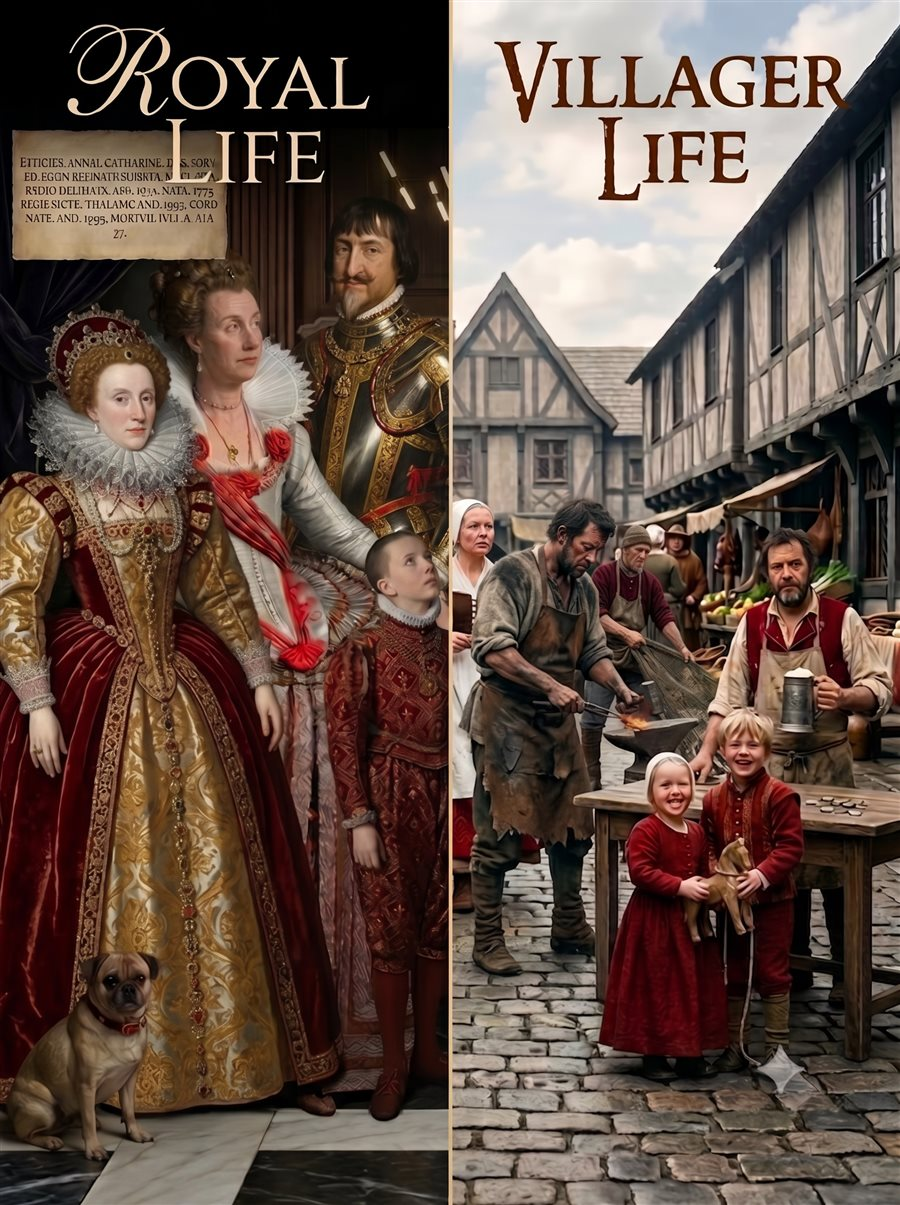
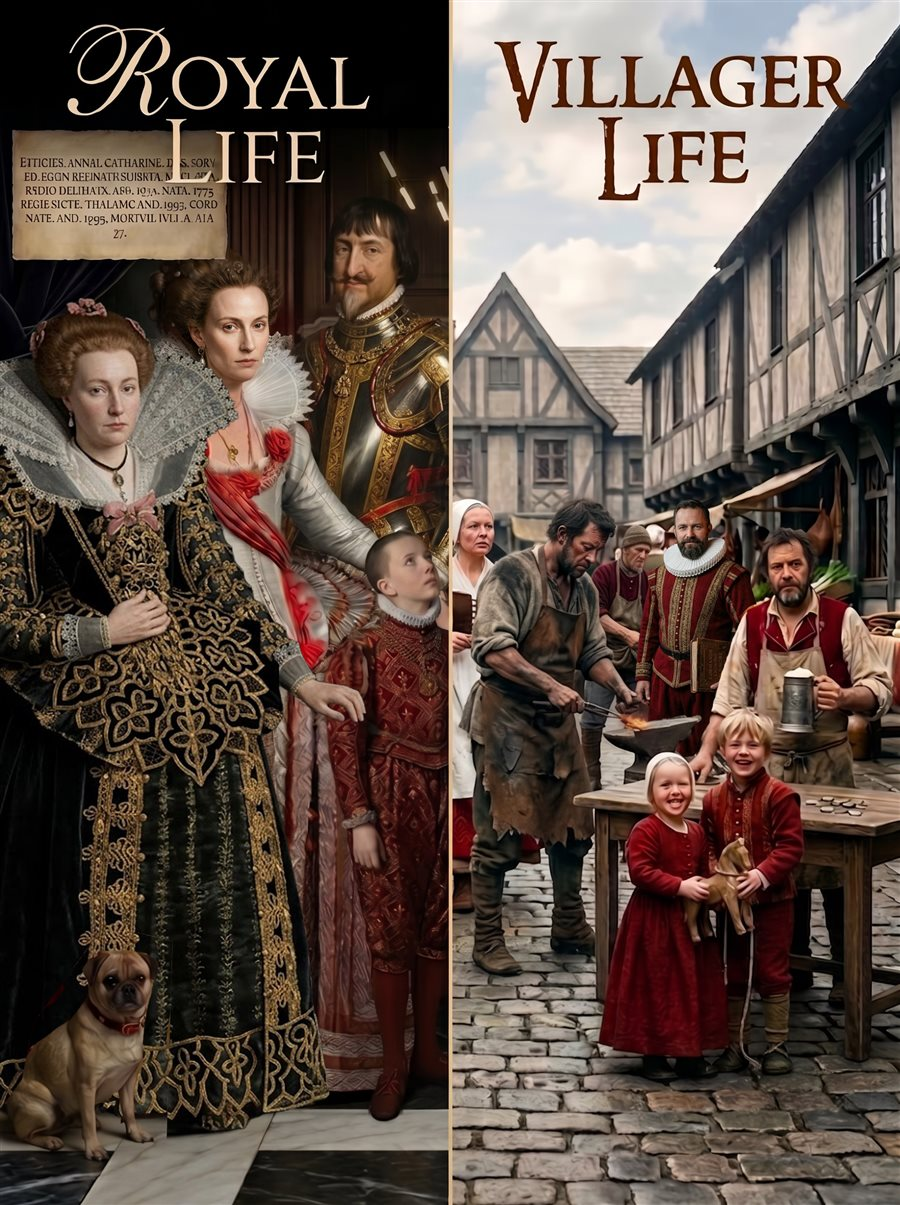
Kronborg landing page redesign; dark-by-default across all ETL Classrooms
- kronborg.html: widened the page (1000px -> 1760px, matching the agent
  pages), added a real portrait to every cast card, and fixed the
  townspeople grid at exactly 3 columns (was auto-fill, leaving a half-empty
  last row). Royals keep their tall portrait crop, villagers get the wider
  landscape crop, same distinction used everywhere else on this classroom.
- Updated royal-villager-life.jpg: the merchant was missing from the
  villager side of the cover image, now included.
- All 8 ETL Classrooms pages (classrooms, both PTX 4990 rooms, Einstein,
  Curie, and all three Kronborg pages) now default to dark regardless of
  the visitor's OS color-scheme preference. The toggle still works and is
  still remembered; only the fallback when nothing is saved changed.

Changed region(s): [[0.0, 0.2149, 0.4044, 0.9519], [0.6844, 0.3992, 0.84, 0.6448], [0.84, 0.8598, 0.9333, 0.9212]]

diff --git a/kronborg.html b/kronborg.html
@@ -7,7 +7,7 @@
 (function () {
   try {
     var saved = localStorage.getItem('etl_classrooms_theme');
-    var theme = saved || (matchMedia('(prefers-color-scheme: light)').matches ? 'light' : 'dark');
+    var theme = saved || 'dark';
     document.documentElement.setAttribute('data-theme', theme);
   } catch (_) {}
 })();
@@ -75,14 +75,14 @@ a:hover { color: var(--green); }
 }
 .ribbon b { color: var(--blue-br); }
 
-.wrap { max-width: 1000px; margin: 0 auto; padding: 0 1.4rem 6rem; }
+.wrap { max-width: 1760px; margin: 0 auto; padding: 0 1.2rem 4rem; }
 .backlink {
   font-family: 'IBM Plex Mono', monospace;
   font-size: .72rem;
   color: var(--mute);
   text-decoration: none;
   display: inline-block;
-  margin: 1.6rem 0 .4rem;
+  margin: .9rem 0 .7rem;
   letter-spacing: .04em;
 }
 .backlink:hover { color: var(--text); }
@@ -133,12 +133,24 @@ a:hover { color: var(--green); }
 .sec-rule { flex: 1; height: 1px; background: var(--line); }
 .sec-sub { font-size: .88rem; color: var(--mute); margin: .4rem 0 1.6rem; max-width: 66ch; }
 
-.cards { display: grid; grid-template-columns: repeat(auto-fill, minmax(220px, 1fr)); gap: 1px; border: 1px solid var(--line); }
-.card { background: var(--panel); padding: 1.4rem; display: block; transition: background .18s; }
+.cards { display: grid; gap: 1px; border: 1px solid var(--line); }
+.cards--royal { grid-template-columns: repeat(4, 1fr); }
+.cards--villager { grid-template-columns: repeat(3, 1fr); }
+.card { background: var(--panel); display: block; transition: background .18s; }
 .card:hover { background: var(--panel2); }
+.card-portrait { aspect-ratio: 3 / 4; overflow: hidden; background: var(--bg2); line-height: 0; }
+.cards--villager .card-portrait { aspect-ratio: 16 / 10; }
+.card-portrait img { width: 100%; height: 100%; object-fit: cover; display: block; }
+.card-body { padding: 1.1rem 1.3rem 1.4rem; }
 .card-name { font-family: 'Spectral', serif; font-size: 1.1rem; font-weight: 600; color: var(--cream); margin: 0 0 .2rem; }
 .card-role { font-family: 'IBM Plex Mono', monospace; font-size: .64rem; color: var(--blue-br); letter-spacing: .04em; margin: 0 0 .5rem; text-transform: uppercase; }
 .card-desc { font-size: .82rem; color: var(--mute); line-height: 1.6; margin: 0; }
+@media (max-width: 900px) {
+  .cards--royal, .cards--villager { grid-template-columns: repeat(2, 1fr); }
+}
+@media (max-width: 560px) {
+  .cards--royal, .cards--villager { grid-template-columns: 1fr; }
+}
 
 .table-card {
   margin-top: 1px;
@@ -213,26 +225,38 @@ a:hover { color: var(--green); }
     <h2>The Royal Court</h2>
     <div class="sec-rule"></div>
   </div>
-  <div class="cards">
+  <div class="cards cards--royal">
     <a class="card" href="/kronborg-agent.html?agent=king">
-      <p class="card-name">Christian IV</p>
-      <p class="card-role">The Older King</p>
-      <p class="card-desc">Master of Kronborg, the Sound Toll, and the Baltic sea lanes.</p>
+      <div class="card-portrait"><img src="/assets/kronborg/king-eyes-open.jpg" alt="Christian IV"></div>
+      <div class="card-body">
+        <p class="card-name">Christian IV</p>
+        <p class="card-role">The Older King</p>
+        <p class="card-desc">Master of Kronborg, the Sound Toll, and the Baltic sea lanes.</p>
+      </div>
     </a>
     <a class="card" href="/kronborg-agent.html?agent=boy_king">
-      <p class="card-name">Prince Christian</p>
-      <p class="card-role">The Boy King, age 10</p>
-      <p class="card-desc">Technically sovereign, holding zero real power yet.</p>
+      <div class="card-portrait"><img src="/assets/kronborg/boy_king-eyes-open.jpg" alt="Prince Christian"></div>
+      <div class="card-body">
+        <p class="card-name">Prince Christian</p>
+        <p class="card-role">The Boy King, age 10</p>
+        <p class="card-desc">Technically sovereign, holding zero real power yet.</p>
+      </div>
     </a>
     <a class="card" href="/kronborg-agent.html?agent=anne_catherine">
-      <p class="card-name">Queen Anne Catherine</p>
-      <p class="card-role">The Royal Consort</p>
-      <p class="card-desc">Legitimate wife of Christian IV, the anchor of court diplomacy.</p>
+      <div class="card-portrait"><img src="/assets/kronborg/anne_catherine-eyes-open.jpg" alt="Queen Anne Catherine"></div>
+      <div class="card-body">
+        <p class="card-name">Queen Anne Catherine</p>
+        <p class="card-role">The Royal Consort</p>
+        <p class="card-desc">Legitimate wife of Christian IV, the anchor of court diplomacy.</p>
+      </div>
     </a>
     <a class="card" href="/kronborg-agent.html?agent=kirsten_munk">
-      <p class="card-name">Kirsten Munk</p>
-      <p class="card-role">The Morganatic Wife</p>
-      <p class="card-desc">No royal blood, and no patience for pretending otherwise.</p>
+      <div class="card-portrait"><img src="/assets/kronborg/kirsten_munk-eyes-open.jpg" alt="Kirsten Munk"></div>
+      <div class="card-body">
+        <p class="card-name">Kirsten Munk</p>
+        <p class="card-role">The Morganatic Wife</p>
+        <p class="card-desc">No royal blood, and no patience for pretending otherwise.</p>
+      </div>
     </a>
   </div>
 
@@ -240,36 +264,54 @@ a:hover { color: var(--green); }
     <h2>The Townspeople of Helsingør</h2>
     <div class="sec-rule"></div>
   </div>
-  <div class="cards">
+  <div class="cards cards--villager">
     <a class="card" href="/kronborg-agent.html?agent=jens">
-      <p class="card-name">Jens Skovgaard</p>
-      <p class="card-role">The Merchant</p>
-      <p class="card-desc">Liaison between foreign sea captains and the Crown's toll collectors.</p>
+      <div class="card-portrait"><img src="/assets/kronborg/jens-eyes-open.jpg" alt="Jens Skovgaard"></div>
+      <div class="card-body">
+        <p class="card-name">Jens Skovgaard</p>
+        <p class="card-role">The Merchant</p>
+        <p class="card-desc">Liaison between foreign sea captains and the Crown's toll collectors.</p>
+      </div>
     </a>
     <a class="card" href="/kronborg-agent.html?agent=morten">
-      <p class="card-name">Morten Grovsmith</p>
-      <p class="card-role">The Blacksmith</p>
-      <p class="card-desc">Forges the iron that keeps Kronborg's guns speaking.</p>
+      <div class="card-portrait"><img src="/assets/kronborg/morten-eyes-open.jpg" alt="Morten Grovsmith"></div>
+      <div class="card-body">
+        <p class="card-name">Morten Grovsmith</p>
+        <p class="card-role">The Blacksmith</p>
+        <p class="card-desc">Forges the iron that keeps Kronborg's guns speaking.</p>
+      </div>
     </a>
     <a class="card" href="/kronborg-agent.html?agent=rasmus">
-      <p class="card-name">Rasmus Krogaard</p>
-      <p class="card-role">The Innkeeper</p>
-      <p class="card-desc">Every rumor in Helsingør passes through his door eventually.</p>
+      <div class="card-portrait"><img src="/assets/kronborg/rasmus-eyes-open.jpg" alt="Rasmus Krogaard"></div>
+      <div class="card-body">
+        <p class="card-name">Rasmus Krogaard</p>
+        <p class="card-role">The Innkeeper</p>
+        <p class="card-desc">Every rumor in Helsingør passes through his door eventually.</p>
+      </div>
     </a>
     <a class="card" href="/kronborg-agent.html?agent=kirsten_m">
-      <p class="card-name">Kirsten Madsdatter</p>
-      <p class="card-role">The Townswoman</p>
-      <p class="card-desc">Runs the dairy and textile stall that helps feed the garrison.</p>
+      <div class="card-portrait"><img src="/assets/kronborg/kirsten_m-eyes-open.jpg" alt="Kirsten Madsdatter"></div>
+      <div class="card-body">
+        <p class="card-name">Kirsten Madsdatter</p>
+        <p class="card-role">The Townswoman</p>
+        <p class="card-desc">Runs the dairy and textile stall that helps feed the garrison.</p>
+      </div>
     </a>
     <a class="card" href="/kronborg-agent.html?agent=niels">
-      <p class="card-name">Niels Iversen</p>
-      <p class="card-role">The Fisherman</p>
-      <p class="card-desc">Reads the Øresund like a living, dangerous thing.</p>
+      <div class="card-portrait"><img src="/assets/kronborg/niels-eyes-open.jpg" alt="Niels Iversen"></div>
+      <div class="card-body">
+        <p class="card-name">Niels Iversen</p>
+        <p class="card-role">The Fisherman</p>
+        <p class="card-desc">Reads the Øresund like a living, dangerous thing.</p>
+      </div>
     </a>
     <a class="card" href="/kronborg-agent.html?agent=hans_bodil">
-      <p class="card-name">Hans and Bodil</p>
-      <p class="card-role">The Children</p>
-      <p class="card-desc">Nine and seven years old. They know every hiding spot in town.</p>
+      <div class="card-portrait"><img src="/assets/kronborg/hans_bodil-eyes-open.jpg" alt="Hans and Bodil"></div>
+      <div class="card-body">
+        <p class="card-name">Hans and Bodil</p>
+        <p class="card-role">The Children</p>
+        <p class="card-desc">Nine and seven years old. They know every hiding spot in town.</p>
+      </div>
     </a>
   </div>
 

diff --git a/classrooms.html b/classrooms.html
@@ -10,7 +10,7 @@
 (function () {
   try {
     var saved = localStorage.getItem('etl_classrooms_theme');
-    var theme = saved || (matchMedia('(prefers-color-scheme: light)').matches ? 'light' : 'dark');
+    var theme = saved || 'dark';
     document.documentElement.setAttribute('data-theme', theme);
   } catch (_) {}
 })();

diff --git a/kronborg-agent.html b/kronborg-agent.html
@@ -7,7 +7,7 @@
 (function () {
   try {
     var saved = localStorage.getItem('etl_classrooms_theme');
-    var theme = saved || (matchMedia('(prefers-color-scheme: light)').matches ? 'light' : 'dark');
+    var theme = saved || 'dark';
     document.documentElement.setAttribute('data-theme', theme);
   } catch (_) {}
 })();

diff --git a/kronborg-room.html b/kronborg-room.html
@@ -7,7 +7,7 @@
 (function () {
   try {
     var saved = localStorage.getItem('etl_classrooms_theme');
-    var theme = saved || (matchMedia('(prefers-color-scheme: light)').matches ? 'light' : 'dark');
+    var theme = saved || 'dark';
     document.documentElement.setAttribute('data-theme', theme);
   } catch (_) {}
 })();

diff --git a/ptx4990-curie.html b/ptx4990-curie.html
@@ -7,7 +7,7 @@
 (function () {
   try {
     var saved = localStorage.getItem('etl_classrooms_theme');
-    var theme = saved || (matchMedia('(prefers-color-scheme: light)').matches ? 'light' : 'dark');
+    var theme = saved || 'dark';
     document.documentElement.setAttribute('data-theme', theme);
   } catch (_) {}
 })();

diff --git a/ptx4990-einstein.html b/ptx4990-einstein.html
@@ -7,7 +7,7 @@
 (function () {
   try {
     var saved = localStorage.getItem('etl_classrooms_theme');
-    var theme = saved || (matchMedia('(prefers-color-scheme: light)').matches ? 'light' : 'dark');
+    var theme = saved || 'dark';
     document.documentElement.setAttribute('data-theme', theme);
   } catch (_) {}
 })();

diff --git a/ptx4990-room.html b/ptx4990-room.html
@@ -7,7 +7,7 @@
 (function () {
   try {
     var saved = localStorage.getItem('etl_classrooms_theme');
-    var theme = saved || (matchMedia('(prefers-color-scheme: light)').matches ? 'light' : 'dark');
+    var theme = saved || 'dark';
     document.documentElement.setAttribute('data-theme', theme);
   } catch (_) {}
 })();

diff --git a/ptx4990.html b/ptx4990.html
@@ -7,7 +7,7 @@
 (function () {
   try {
     var saved = localStorage.getItem('etl_classrooms_theme');
-    var theme = saved || (matchMedia('(prefers-color-scheme: light)').matches ? 'light' : 'dark');
+    var theme = saved || 'dark';
     document.documentElement.setAttribute('data-theme', theme);
   } catch (_) {}
 })();
